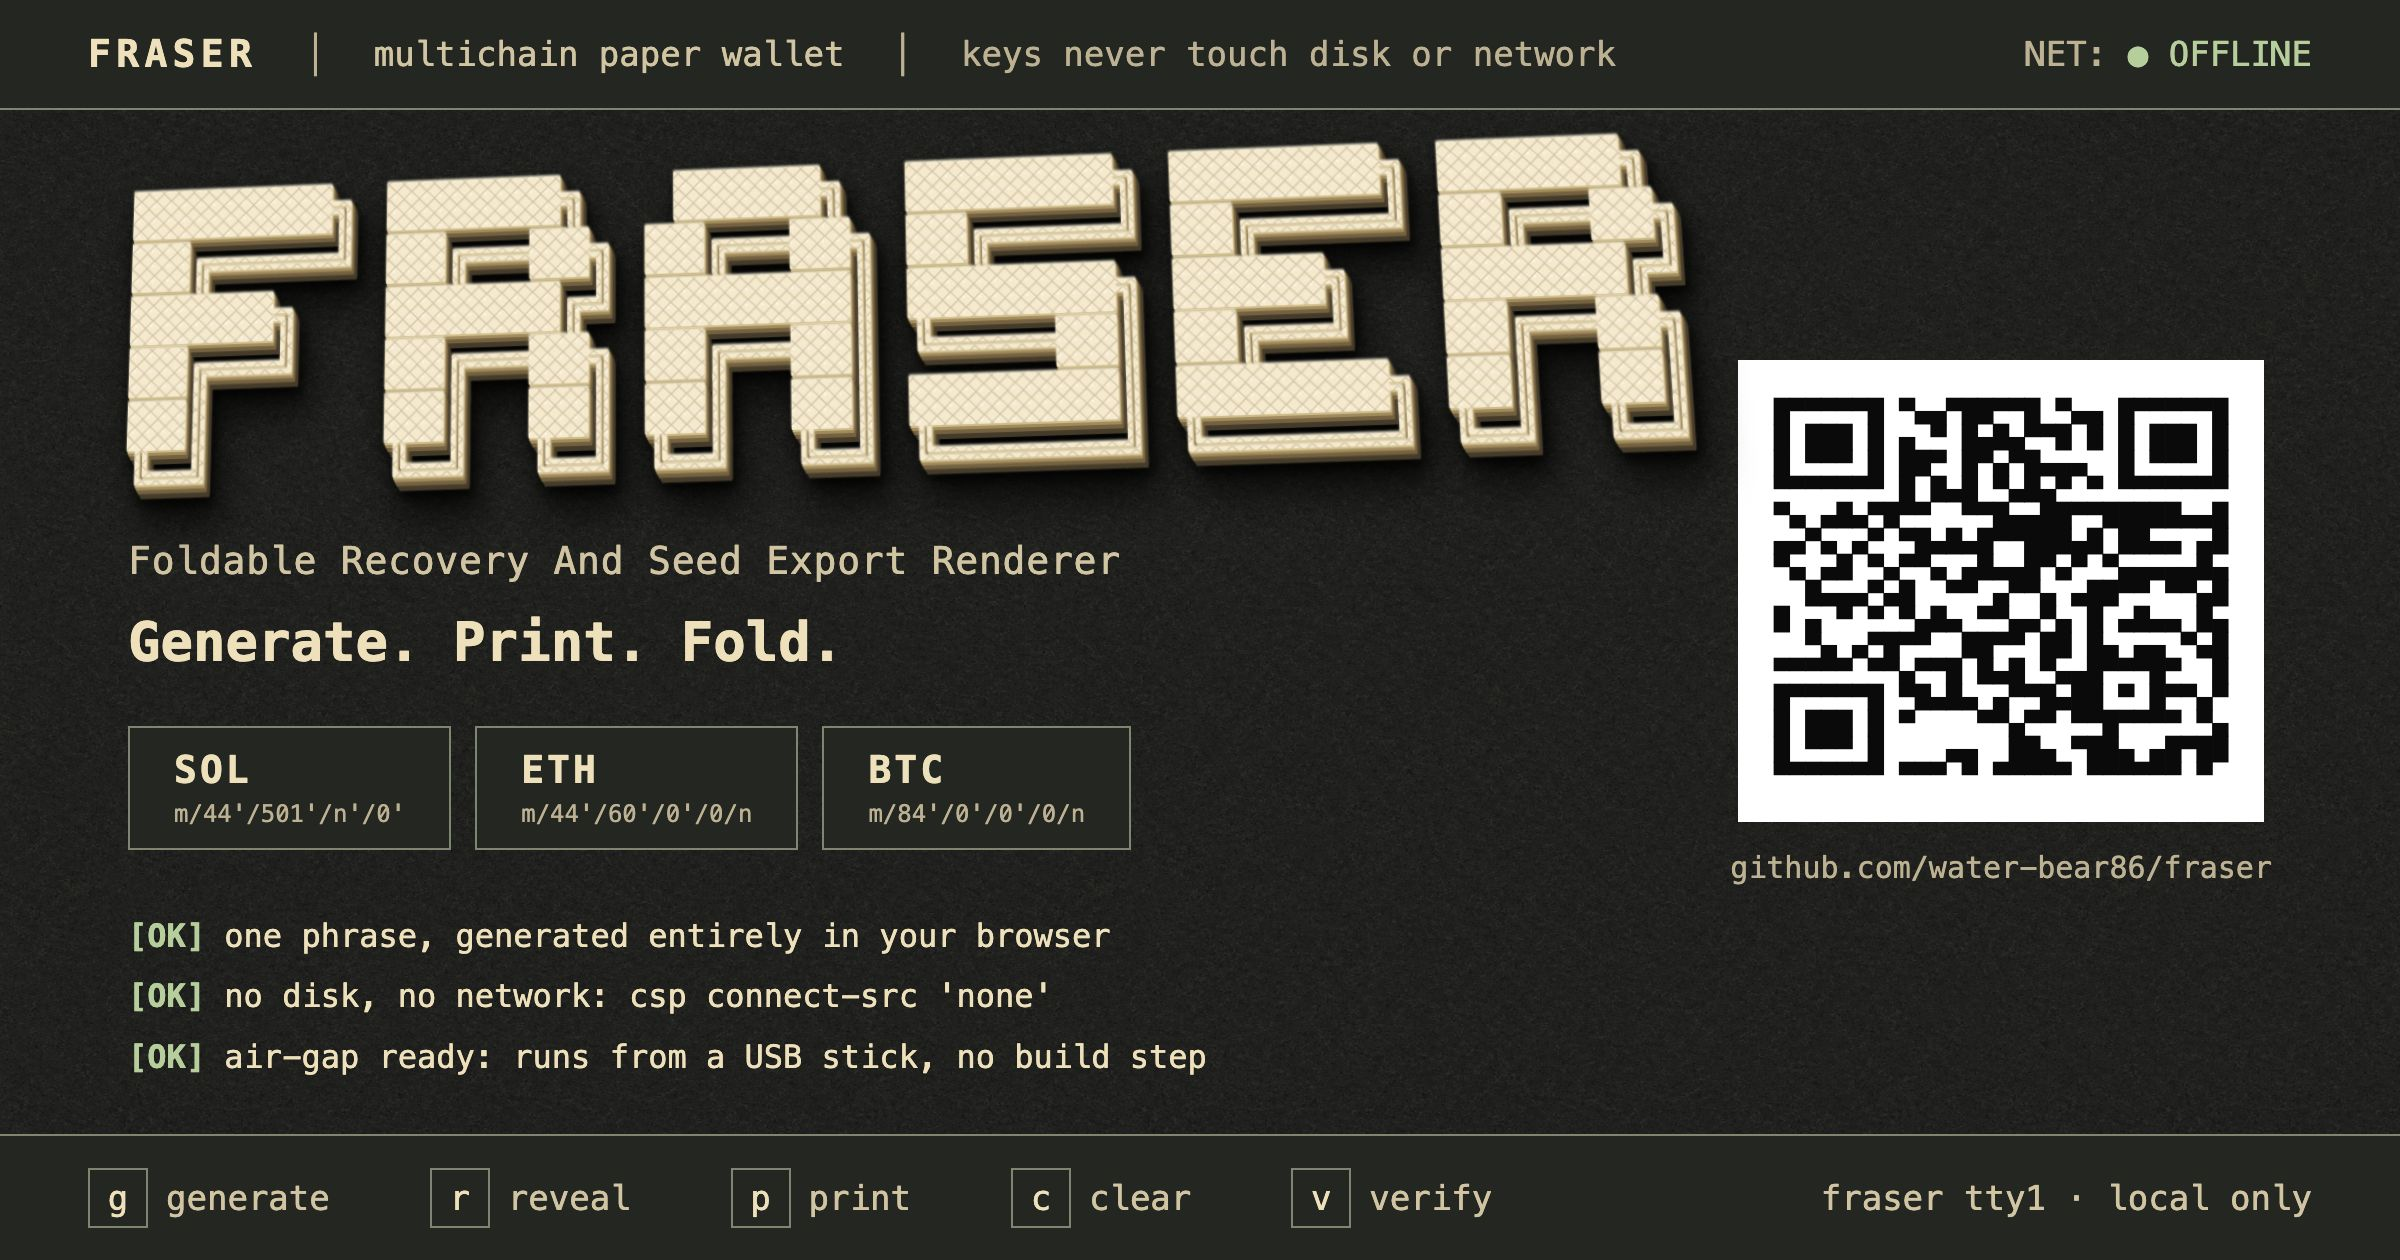
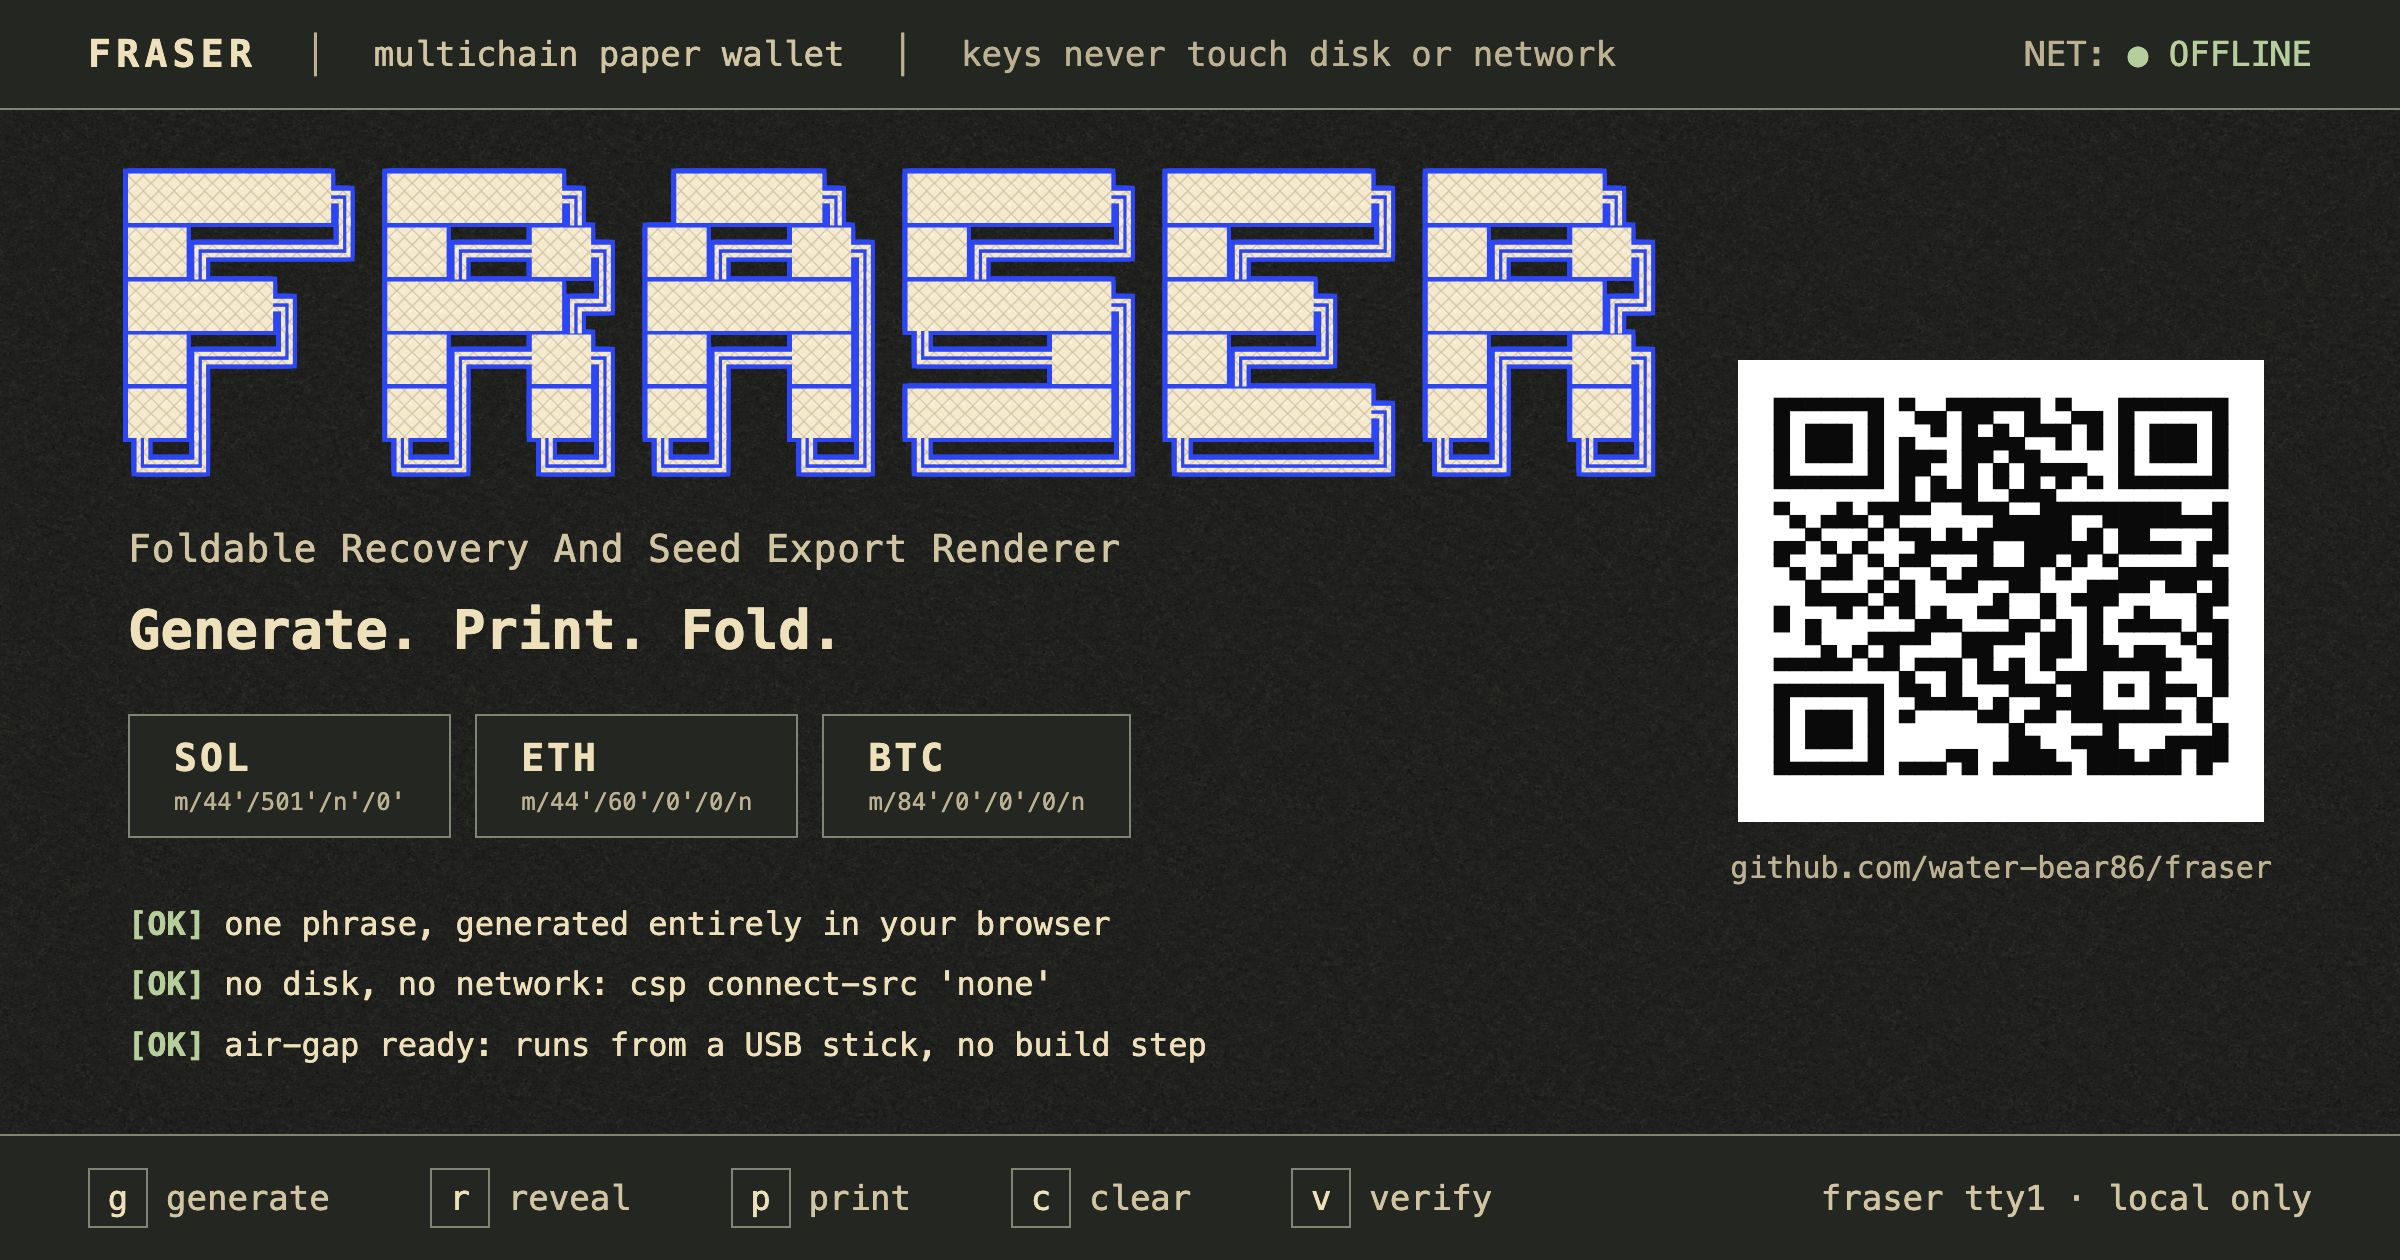
Use ivory and cobalt for FRASER colour-depth treatment

diff --git a/index.html b/index.html
@@ -111,19 +111,14 @@
   pre.banner {
     margin: 0; width: max-content; color: #f8eacb; white-space: pre;
     font-size: clamp(8px, 2.55vw, 16px); line-height: 1.13;
-    filter: drop-shadow(0 -.025em .02em rgba(255, 249, 224, .7))
-            drop-shadow(.03em .05em 0 #d2bb83)
-            drop-shadow(.04em .07em 0 #a58a56)
-            drop-shadow(.055em .09em 0 #78603a)
-            drop-shadow(.07em .12em 0 #473b28)
-            drop-shadow(.08em .18em .12em rgba(0, 0, 0, .8))
-            drop-shadow(.15em .45em .35em rgba(0, 0, 0, .65));
-    transform-origin: center;
-    transform: perspective(70em) translateZ(1.4em)
-               rotateX(calc(12deg + var(--banner-pitch, 0deg)))
-               rotateY(calc(-5deg + var(--banner-yaw, 0deg))) rotateZ(-1deg);
+    --banner-cobalt: #2446ff;
+    /* Flat colour planes: ivory face and a saturated cobalt reference. */
+    filter: drop-shadow(.1em 0 0 var(--banner-cobalt))
+            drop-shadow(-.1em 0 0 var(--banner-cobalt))
+            drop-shadow(0 .1em 0 var(--banner-cobalt))
+            drop-shadow(0 -.1em 0 var(--banner-cobalt));
   }
-  /* A molded diffuser in the glyphs, with warm light spilling behind it. */
+  /* Keep the molded diffuser inside the ivory face. */
   @supports ((background-clip: text) or (-webkit-background-clip: text)) {
     pre.banner {
       background-color: #f8eacb;
@@ -138,14 +133,11 @@
   @media (forced-colors: active) {
     pre.banner {
       background: none; color: CanvasText;
-      -webkit-text-fill-color: currentColor; filter: none; transform: none;
+      -webkit-text-fill-color: currentColor; filter: none;
     }
   }
   .brand-lockup { min-width: 0; max-width: 100%; }
-  @media (hover: hover) and (pointer: fine) and (min-width: 901px) and (prefers-reduced-motion: no-preference) and (forced-colors: none) {
-    pre.banner { transition: transform .2s cubic-bezier(.16, 1, .3, 1); }
-  }
-  .brand-definition { margin: 24px 0 0; color: var(--mid); font-size: 12px; line-height: 1.6; }
+  .brand-definition { margin: 12px 0 0; color: var(--mid); font-size: 12px; line-height: 1.6; }
   .masthead-meta { color: var(--dim); text-align: right; font-size: 12px; }
   .masthead-meta p { margin: 3px 0; }
   .masthead-meta .product-name { color: var(--fg); font-size: 17px; font-weight: 600; margin-bottom: 8px; }
@@ -331,7 +323,6 @@
   .tour-skip { border-color: transparent; color: var(--dim); }
 
   @media (max-width: 900px) {
-    pre.banner { --banner-pitch: 0deg; --banner-yaw: 0deg; }
     .topbar .privacy-label, .topbar > .sep { display: none; }
     .masthead { align-items: start; flex-direction: column; gap: 18px; }
     .masthead-meta { text-align: left; }
@@ -343,7 +334,6 @@
     #result .term-line { grid-template-columns: 7ch 9ch minmax(0, 1fr); }
   }
   @media (max-width: 600px) {
-    .brand-definition { margin-top: 18px; }
     body { font-size: 14px; }
     main { padding: 28px 20px; }
     .topbar { padding: 12px 20px; gap: 8px 16px; }
@@ -383,7 +373,6 @@
     #systemSummary { order: 1; flex-basis: 100%; margin-left: 0; }
   }
   @media (prefers-reduced-motion: reduce) {
-    pre.banner { --banner-pitch: 0deg; --banner-yaw: 0deg; transition: none; }
     .cursor::after { animation: none; }
     .btn.primary { transition: none; }
     .btn:active:not(:disabled) { transform: none; }

diff --git a/app.js b/app.js
@@ -639,50 +639,6 @@
   window.addEventListener('scroll', queueTourPosition, true);
   window.addEventListener('beforeprint', endTour);
 
-  // ------------------------------------------------------ wordmark parallax
-  function initBannerParallax() {
-    var stage = document.querySelector('.brand-lockup');
-    var banner = stage && stage.querySelector('pre.banner');
-    if (!banner) return;
-    var enabled = window.matchMedia('(hover: hover) and (pointer: fine) and (min-width: 901px) and (prefers-reduced-motion: no-preference) and (forced-colors: none)');
-    var frame = 0;
-    var pointerX = 0;
-    var pointerY = 0;
-
-    function reset() {
-      if (frame) cancelAnimationFrame(frame);
-      frame = 0;
-      stage.style.removeProperty('--banner-pitch');
-      stage.style.removeProperty('--banner-yaw');
-    }
-
-    function paint() {
-      frame = 0;
-      if (!enabled.matches || document.hidden || tourDialog.open) { reset(); return; }
-      var rect = stage.getBoundingClientRect();
-      if (!rect.width || !rect.height) { reset(); return; }
-      var x = Math.max(0, Math.min(1, (pointerX - rect.left) / rect.width));
-      var y = Math.max(0, Math.min(1, (pointerY - rect.top) / rect.height));
-      stage.style.setProperty('--banner-pitch', ((.5 - y) * 8).toFixed(2) + 'deg');
-      stage.style.setProperty('--banner-yaw', ((x - .5) * 8).toFixed(2) + 'deg');
-    }
-
-    // Pointer batches schedule one frame; the wordmark never runs an idle loop.
-    stage.addEventListener('pointermove', function (event) {
-      if (event.pointerType !== 'mouse' || !enabled.matches) { reset(); return; }
-      pointerX = event.clientX;
-      pointerY = event.clientY;
-      if (!frame) frame = requestAnimationFrame(paint);
-    }, { passive: true });
-    stage.addEventListener('pointerleave', reset);
-    stage.addEventListener('pointercancel', reset);
-    if (typeof enabled.addEventListener === 'function') enabled.addEventListener('change', reset);
-    window.addEventListener('blur', reset);
-    window.addEventListener('resize', reset);
-    window.addEventListener('scroll', reset, { passive: true });
-    document.addEventListener('visibilitychange', reset);
-  }
-
   // --------------------------------------------------------------- hotkeys
   document.addEventListener('keydown', function (e) {
     if (tourDialog.open) return;
@@ -705,7 +661,6 @@
     }
   });
 
-  initBannerParallax();
   updateNetBadge();
   boot();
   startTour();

diff --git a/social/card.html b/social/card.html
@@ -57,19 +57,14 @@
   .lockup { flex: 1; min-width: 0; }
   pre.banner {
     width: max-content; color: #f8eacb; font-size: 24px; line-height: 1.12; font-weight: 400;
-    filter: drop-shadow(0 -.025em .02em rgba(255, 249, 224, .7))
-            drop-shadow(.03em .05em 0 #d2bb83)
-            drop-shadow(.04em .07em 0 #a58a56)
-            drop-shadow(.055em .09em 0 #78603a)
-            drop-shadow(.07em .12em 0 #473b28)
-            drop-shadow(.08em .18em .12em rgba(0, 0, 0, .8))
-            drop-shadow(.15em .45em .35em rgba(0, 0, 0, .65));
-    transform-origin: center;
-    transform: perspective(70em) translateZ(1.4em)
-               rotateX(calc(12deg + var(--banner-pitch, 0deg)))
-               rotateY(calc(-5deg + var(--banner-yaw, 0deg))) rotateZ(-1deg);
+    --banner-cobalt: #2446ff;
+    /* Flat colour planes: ivory face and a saturated cobalt reference. */
+    filter: drop-shadow(.1em 0 0 var(--banner-cobalt))
+            drop-shadow(-.1em 0 0 var(--banner-cobalt))
+            drop-shadow(0 .1em 0 var(--banner-cobalt))
+            drop-shadow(0 -.1em 0 var(--banner-cobalt));
   }
-  /* A molded diffuser in the glyphs, with warm light spilling behind it. */
+  /* Keep the molded diffuser inside the ivory face. */
   @supports ((background-clip: text) or (-webkit-background-clip: text)) {
     pre.banner {
       background-color: #f8eacb;
@@ -84,10 +79,10 @@
   @media (forced-colors: active) {
     pre.banner {
       background: none; color: CanvasText;
-      -webkit-text-fill-color: currentColor; filter: none; transform: none;
+      -webkit-text-fill-color: currentColor; filter: none;
     }
   }
-  .definition { color: var(--mid); font-size: 19px; margin-top: 30px; letter-spacing: .02em; }
+  .definition { color: var(--mid); font-size: 19px; margin-top: 18px; letter-spacing: .02em; }
   .tagline { color: var(--fg); font-size: 27px; font-weight: 600; margin-top: 14px; }
   .chains { display: flex; gap: 12px; margin-top: 26px; }
   .chip {
